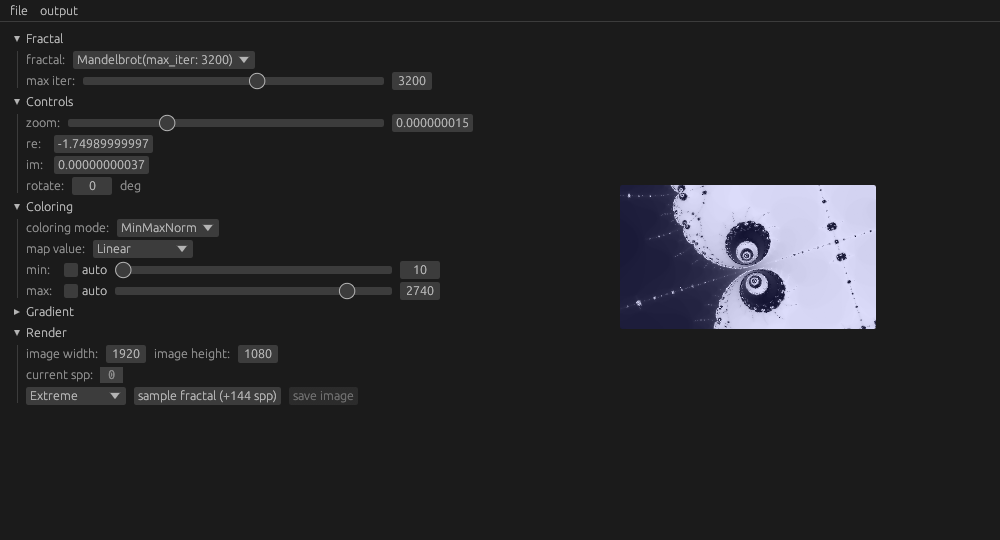
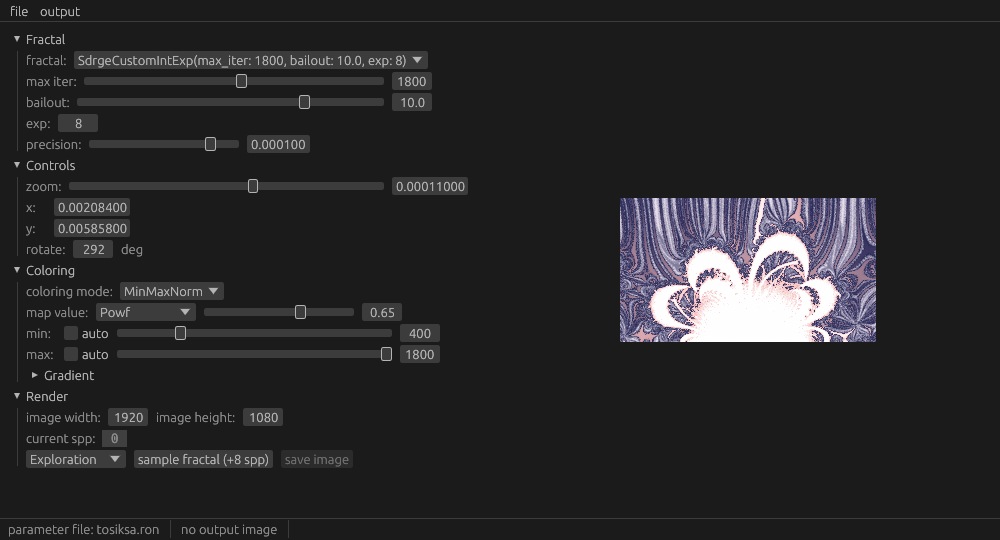
Update README and gui screenshot

diff --git a/README.md b/README.md
@@ -15,13 +15,13 @@ It features anti-aliasing and the GUI allows for progressive sampling by manuall
 
 # How to install
 
-If you have cargo installed:
+If you have [cargo](https://doc.rust-lang.org/cargo/) installed:
 
 ```
 cargo install fractal_rndr
 ```
 
-Otherwise, you can download the latest executable from the [releases tab](https://github.com/valflrt/fractal_rndr/releases/latest).
+> You can also download executables for older versions [from github](https://github.com/valflrt/fractal_rndr/releases/latest).
 
 # How to use
 
